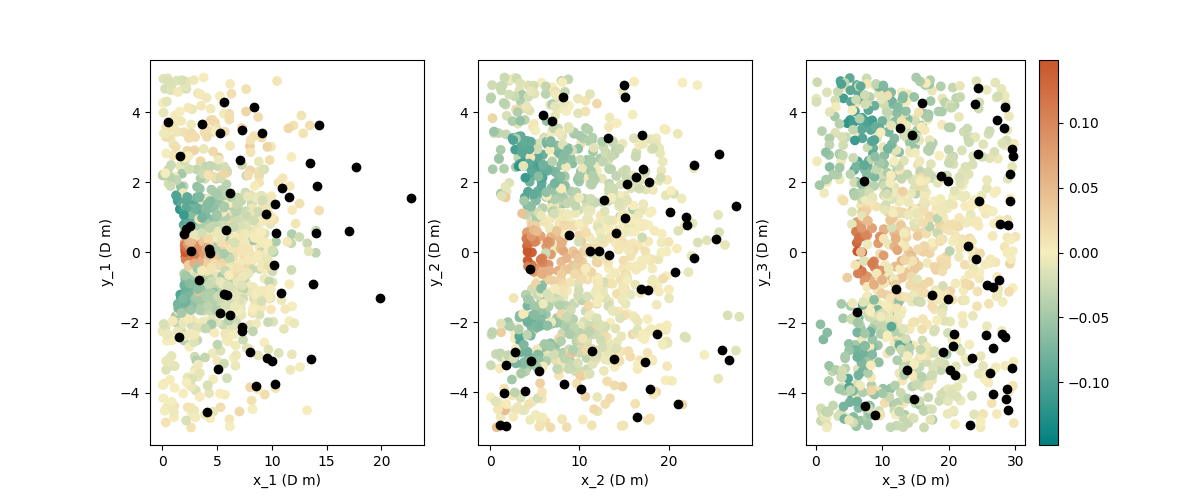
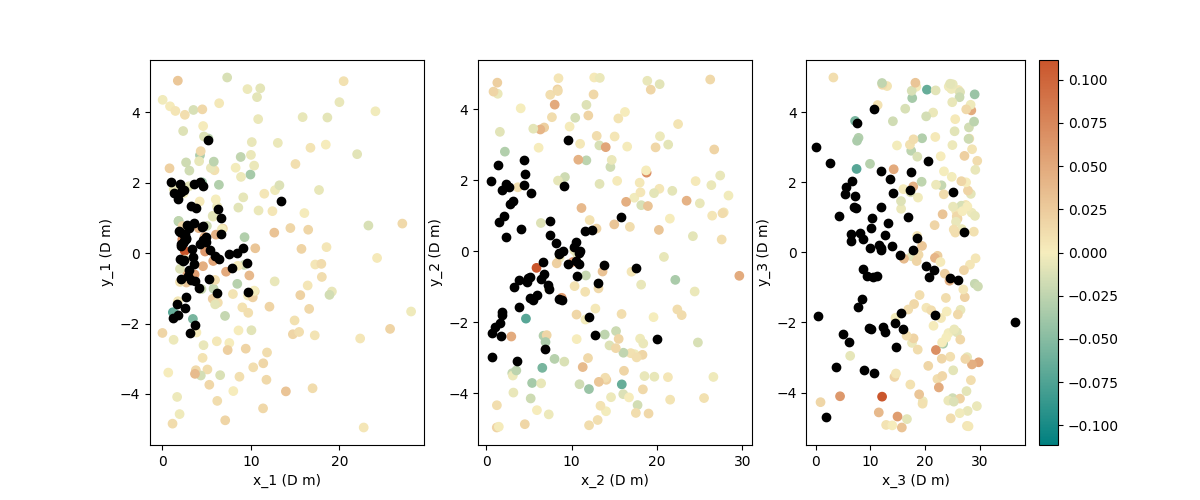
Scale training points

diff --git a/GP_machine_learning/GP_machine_learning_functions.py b/GP_machine_learning/GP_machine_learning_functions.py
@@ -2,6 +2,7 @@
 Process machine learning
 """
 from pyDOE import lhs
+from scipy.stats.distributions import norm, expon
 import diversipy.hycusampling as dp
 import diversipy.subset as sb
 import numpy as np
@@ -90,6 +91,61 @@ def create_training_points_irregular(n_target, noise_level):
     X_train[:, 3] = 10*X_train[:, 3] - 5
     X_train[:, 4] = 30*X_train[:, 4]
     X_train[:, 5] = 10*X_train[:, 5] - 5
+    # exclude training points where turbine 1 is closer than 2D
+    X_train_dist = np.sqrt(X_train[:, 0]**2 + X_train[:, 1]**2)
+    X_train_real = X_train[X_train_dist > 2]
+    # exclude training points where turbine 2 is more important"
+    # than turbine 1 using distance = sqrt(10*x_1^2 + y_1^2)
+    X_train_sig = calculate_distance(X_train_real[:, 2],
+                                    X_train_real[:, 3]) \
+        - calculate_distance(X_train_real[:, 0], X_train_real[:, 1])
+    X_train_real = X_train_real[X_train_sig > 0]
+    # exclude training points where turbine 3 is more important
+    # than turbine 2 using distance = sqrt(10*x_1^2 + y_1^2)
+    X_train_sig = calculate_distance(X_train_real[:, 4],
+                                    X_train_real[:, 5]) \
+        - calculate_distance(X_train_real[:, 2], X_train_real[:, 3])
+    X_train_real = X_train_real[X_train_sig > 0]
+    # run simulations to find data points
+    y_train = np.zeros(len(X_train_real))
+    for i in range(len(X_train_real)):
+        y_train[i] = simulator6d_halved(X_train_real[i, :], noise_level)
+    n_train = len(X_train_real)
+    return X_train_real, y_train, n_train
+
+def create_training_points_irregular_lhs(n_target, noise_level):
+    """ create array of training points
+    Discard any training points where turbines are
+    not in the correct order and any training points where
+    turbines are closer than 2D
+    Scale the training points using a gaussian for spanwise
+    direction and exponential function for streamwise
+    direction
+
+    Parameters
+    ----------
+    n_target: int
+        target number of training points
+    noise_level: float
+        Level of gaussian noise to be added to
+        simulator
+
+    Returns
+    -------
+    X_train_real:    ndarray of shape(variable,6)
+                    array containing valid training points
+    y_train:         ndarray of shape(variable,)
+                    value of CT* at test points
+    n_train:        int
+                    number of valid training points
+    """
+    X_train = lhs(6, n_target)
+    X_train[:, 0] = expon(scale = 7).ppf(X_train[:, 0])
+    X_train[:, 1] = norm(scale = 1.5).ppf(X_train[:, 1])
+    X_train[:, 2] = expon(scale = 7).ppf(X_train[:, 2])
+    X_train[:, 3] = norm(scale = 1.5).ppf(X_train[:, 3])
+    X_train[:, 4] = expon(scale = 7).ppf(X_train[:, 4])
+    X_train[:, 5] = norm(scale = 1.5).ppf(X_train[:, 5])
     # exclude training points where turbine 1 is closer than 2D
     X_train_dist = np.sqrt(X_train[:, 0]**2 + X_train[:, 1]**2)
     X_train_real = X_train[X_train_dist > 2]

diff --git a/analysis/gp_diagnosis.py b/analysis/gp_diagnosis.py
@@ -16,15 +16,15 @@ from regular_array_sampling.functions import regular_array_monte_carlo
 
 noise = 0.01
 # create array of sampled regular array layouts
-cand_points = regular_array_monte_carlo(10000)
+#cand_points = regular_array_monte_carlo(10000)
 # create testing points
-X_test, y_test = create_testing_points_regular(noise)
+X_test, y_test = create_testing_points(noise)
 
-n_target = 50
+n_target = 500
 
 # create training points
 X_train, y_train, n_train = \
-    create_training_points_regular(n_target, noise, cand_points)
+    create_training_points_irregular_lhs(n_target, noise)
 
 # fit GP regression and calculate rmse
 kernel = 1.0 ** 2 * Matern(length_scale=[1., 1., 1., 1., 1., 1.]) \
@@ -64,4 +64,4 @@ turbine3.scatter(X_test[:, 4], X_test[:, 5],
                  c=(y_predict - y_test),cmap=Geyser_3.mpl_colormap, vmin=-max_error, vmax=max_error)
 turbine3.scatter(X_train[:, 4], X_train[:, 5], c='black')
 plt.colorbar(x)
-plt.savefig('analysis/GP_machine_learning_plots/GP_error_regular_training_6Dmaximin_max_change_halved.png')
+plt.savefig('analysis/GP_machine_learning_plots/GP_error_irregular_training_max_change_halved.png')
